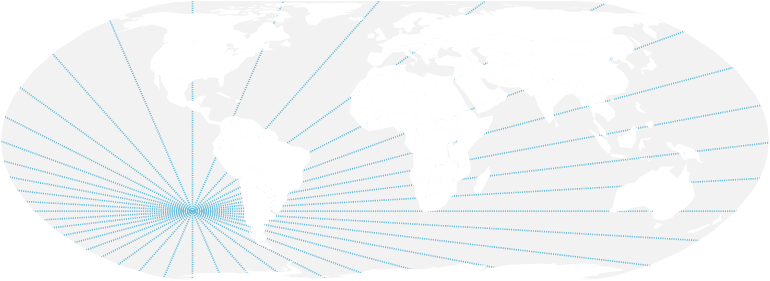
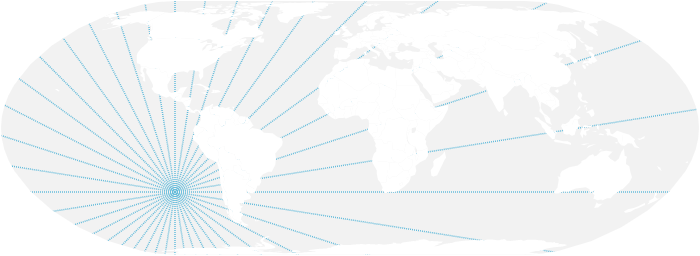
fix: rhumbs lines angles

diff --git a/src/layers/geolines.js b/src/layers/geolines.js
@@ -1,0 +1,85 @@
+import { geolines as getlines } from "geotoolbox";
+import { geoPath } from "d3-geo";
+const d3 = Object.assign({}, { geoPath });
+
+export function geolines(selection, projection, planar, options = {}, clipid) {
+  if (!planar) {
+    let stroke = options.stroke != undefined ? options.stroke : "#020e21";
+    if (!Array.isArray(stroke)) {
+      stroke = Array(3).fill(stroke);
+    }
+
+    let strokeWidth =
+      options.strokeWidth != undefined ? options.strokeWidth : [1.5, 1.2, 0.7];
+    if (!Array.isArray(strokeWidth)) {
+      strokeWidth = Array(3).fill(strokeWidth);
+    }
+
+    let strokeOpacity =
+      options.strokeOpacity != undefined ? options.strokeOpacity : 1;
+    if (!Array.isArray(strokeOpacity)) {
+      strokeOpacity = Array(3).fill(strokeOpacity);
+    }
+
+    let strokeDasharray =
+      options.strokeDasharray != undefined
+        ? options.strokeDasharray
+        : ["none", 5, 3];
+    if (!Array.isArray(strokeDasharray)) {
+      strokeDasharray = Array(3).fill(strokeDasharray);
+    }
+
+    let strokeLinecap =
+      options.strokeLinecap != undefined ? options.strokeLinecap : "butt";
+    if (!Array.isArray(strokeLinecap)) {
+      strokeLinecap = Array(3).fill(strokeLinecap);
+    }
+
+    let lines = getlines().features;
+    let eq = lines.filter((d) => d.properties.name == "Equator");
+    let tr = lines.filter((d) => d.properties.name.includes("Tropic"));
+    let po = lines.filter((d) => d.properties.name.includes("Circle"));
+
+    selection
+      .append("g")
+      .attr("clip-path", clipid == null ? `none` : `url(#clip_${clipid}`)
+      .selectAll("path")
+      .data(eq)
+      .join("path")
+      .attr("d", d3.geoPath(projection))
+      .attr("fill", "none")
+      .attr("stroke", stroke[0])
+      .attr("stroke-width", strokeWidth[0])
+      .attr("stroke-opacity", strokeOpacity[0])
+      .attr("stroke-dasharray", strokeDasharray[0])
+      .attr("stroke-linecap", strokeLinecap[0]);
+
+    selection
+      .append("g")
+      .attr("clip-path", clipid == null ? `none` : `url(#clip_${clipid}`)
+      .selectAll("path")
+      .data(tr)
+      .join("path")
+      .attr("d", d3.geoPath(projection))
+      .attr("fill", "none")
+      .attr("stroke", stroke[1])
+      .attr("stroke-width", strokeWidth[1])
+      .attr("stroke-opacity", strokeOpacity[1])
+      .attr("stroke-dasharray", strokeDasharray[1])
+      .attr("stroke-linecap", strokeLinecap[1]);
+
+    selection
+      .append("g")
+      .attr("clip-path", clipid == null ? `none` : `url(#clip_${clipid}`)
+      .selectAll("path")
+      .data(po)
+      .join("path")
+      .attr("d", d3.geoPath(projection))
+      .attr("fill", "none")
+      .attr("stroke", stroke[2])
+      .attr("stroke-width", strokeWidth[2])
+      .attr("stroke-opacity", strokeOpacity[2])
+      .attr("stroke-dasharray", strokeDasharray[2])
+      .attr("stroke-linecap", strokeLinecap[2]);
+  }
+}

diff --git a/src/draw.js b/src/draw.js
@@ -12,6 +12,7 @@ import { getproj } from "./projections/projections.js";
 
 // Layers
 import { graticule } from "./layers/graticule.js";
+import { geolines } from "./layers/geolines.js";
 import { outline } from "./layers/outline.js";
 import { addfooter } from "./layers/footer.js";
 import { addheader } from "./layers/header.js";
@@ -167,6 +168,23 @@ export function draw({ params = {}, layers = {} } = {}) {
           strokeLinecap: layer.strokeLinecap,
           strokeLinejoin: layer.strokeLinejoin,
           step: layer.step,
+        },
+        clipid
+      );
+    }
+
+    // geolines
+    if (layer.type == "geolines") {
+      geolines(
+        svg,
+        projection,
+        planar,
+        {
+          stroke: layer.stroke,
+          strokeWidth: layer.strokeWidth,
+          strokeOpacity: layer.strokeOpacity,
+          strokeDasharray: layer.strokeDasharray,
+          strokeLinecap: layer.strokeLinecap,
         },
         clipid
       );

diff --git a/src/layers/rhumbs.js b/src/layers/rhumbs.js
@@ -18,6 +18,8 @@ export function rhumbs(selection, width, height, clipid, options = {}) {
     angles[i] = (360 / nb) * i * (Math.PI / 180);
   }
 
+  let size = Math.max(width, height);
+
   selection
     .append("g")
     .attr("clip-path", clipid == null ? `none` : `url(#clip_${clipid}`)
@@ -31,8 +33,8 @@ export function rhumbs(selection, width, height, clipid, options = {}) {
     .attr("stroke-width", strokeWidth)
     .attr("stroke-dasharray", strokeDasharray)
     .attr("points", function (d, i) {
-      let x2 = position[0] + Math.cos(d) * width * 2;
-      let y2 = position[1] + Math.sin(d) * height * 2;
+      let x2 = position[0] + Math.cos(d) * size;
+      let y2 = position[1] + Math.sin(d) * size;
       return position[0] + "," + position[1] + " " + x2 + "," + y2;
     });
 }

diff --git a/src/helpers/height.js b/src/helpers/height.js
@@ -19,7 +19,9 @@ export function getheight(layers, extent, margin, projection, planar, width) {
   // case2:  if outline is defined -> world extent
   if (
     !extent &&
-    (types.includes("outline") || types.includes("tissot")) &&
+    (types.includes("outline") ||
+      types.includes("tissot") ||
+      types.includes("geolines")) &&
     !planar
   ) {
     ref = { type: "Sphere" };
@@ -30,7 +32,8 @@ export function getheight(layers, extent, margin, projection, planar, width) {
     (!extent &&
       geojsons > 0 &&
       !types.includes("outline") &&
-      !types.includes("tissot")) ||
+      !types.includes("tissot") &&
+      !types.includes("geolines")) ||
     planar
   ) {
     let l = layers.map((d) => d.geojson).filter((d) => d !== undefined);

diff --git a/README.md b/README.md
@@ -819,6 +819,37 @@ bertin.draw({
 - **background**: background color (default: "white")
 - **backgroundOpacity**: background opacity (default: 1)
 
+
+### Geolines
+
+The _geolines_ type allows you to display geographic lines (equator, tropics, polar circles). [Source](https://github.com/neocarto/bertin/blob/main/src/layers/geolines.js).
+
+![](./img/geolines.png)
+
+#### Code
+
+```js
+bertin.draw({
+  layers: [
+    {
+      type: "geolines",
+      stroke: "black",
+      strokeWidth: [5, 3, 1],
+    },
+  ],
+});
+```
+
+#### Parameters
+
+*For each parameter, you can set a single value for all lines are an array in that order: [equator, tropics, polar].*
+
+- **stroke**: stroke color (default: "#020e21")
+- **strokeWidth**: stroke width (default: [1.5, 1.2, 0.7])
+- **strokeOpacity**: stroke opacity (default: 1)
+- **strokeDasharray**: stroke-dasharray (default: ["none", 5, 3])
+- **strokeLinecap**: stroke-linecap (default: "but")
+
 ### Graticule
 
 The _graticule_ type allows you to display the latitude and longitude lines. [Source](https://github.com/neocarto/bertin/blob/main/src/layers/graticule.js).
@@ -843,8 +874,8 @@ bertin.draw({
 
 - **stroke**: stroke color (default:"white")
 - **strokeWidth**: stroke width (default:0.8)
-- **strokeopacity**: stroke opacity (default:0.5)
-- **strokedasharray**: stroke-dasharray (default:2)
+- **strokeOpacity**: stroke opacity (default:0.5)
+- **strokeDasharray**: stroke-dasharray (default:2)
 - **step**: gap between graticules. The value can be a number or an array of two values (default: [10, 10])
 
 ### hatch (or hatching)
